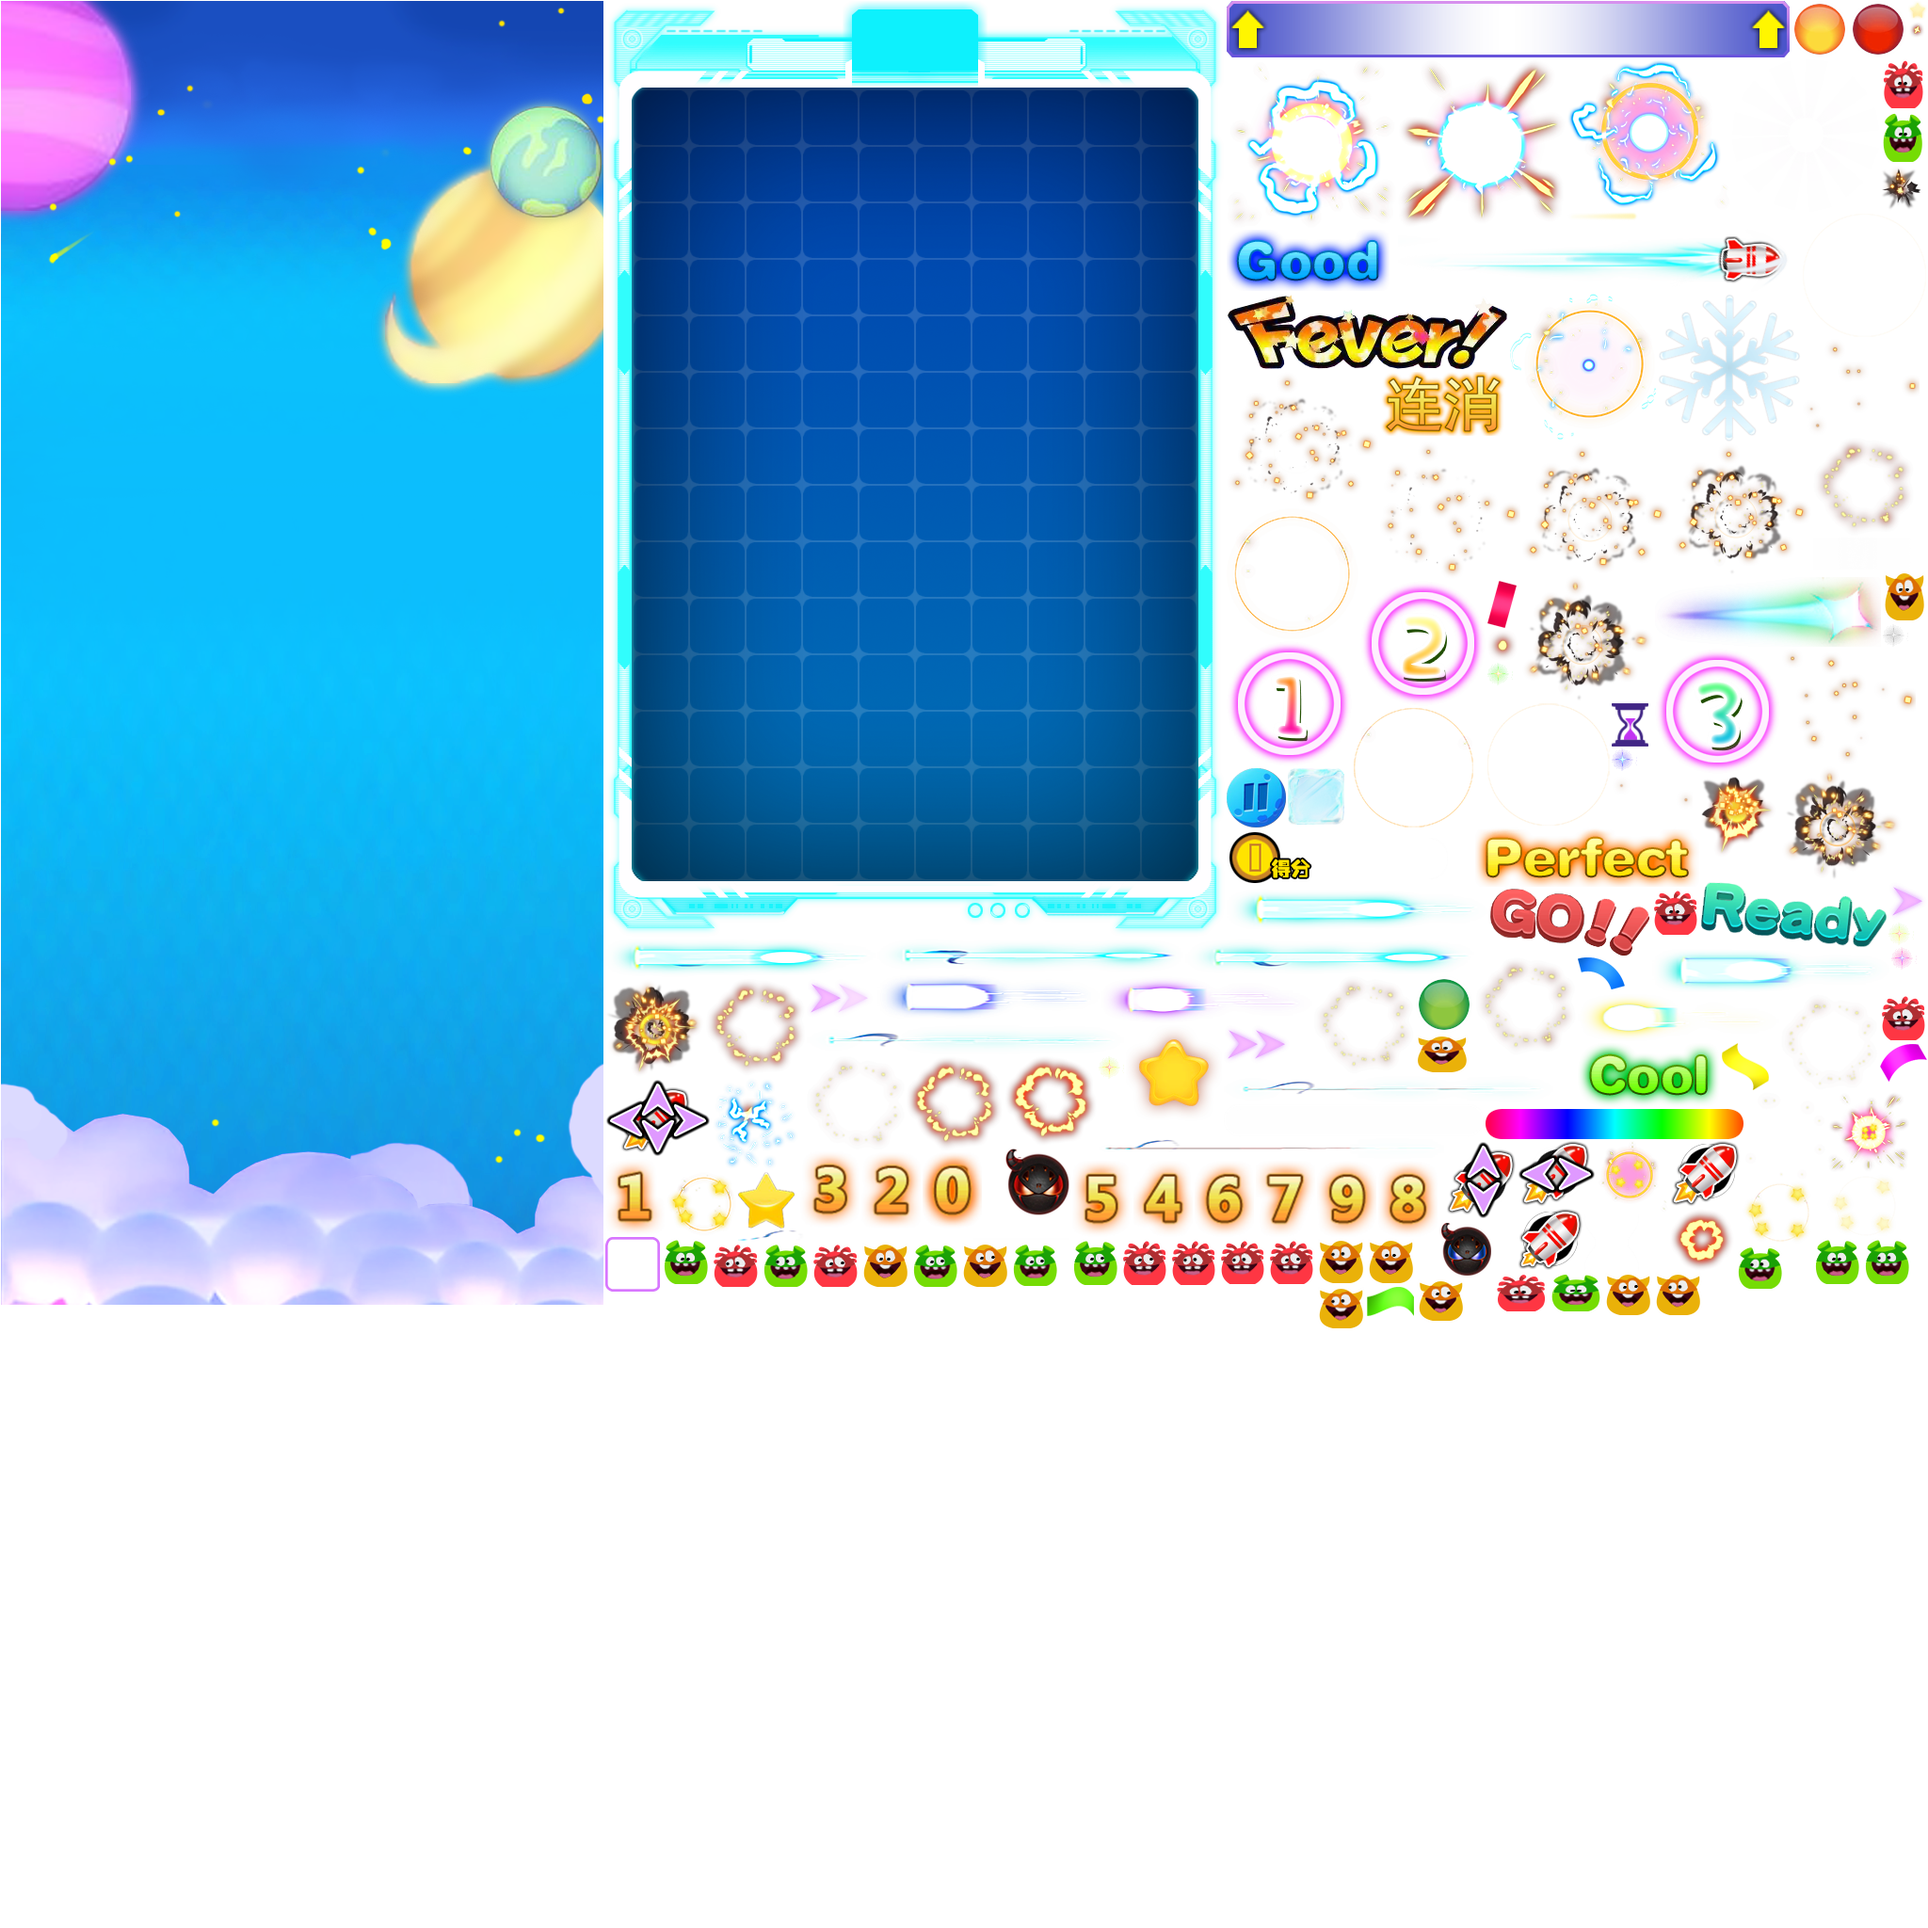
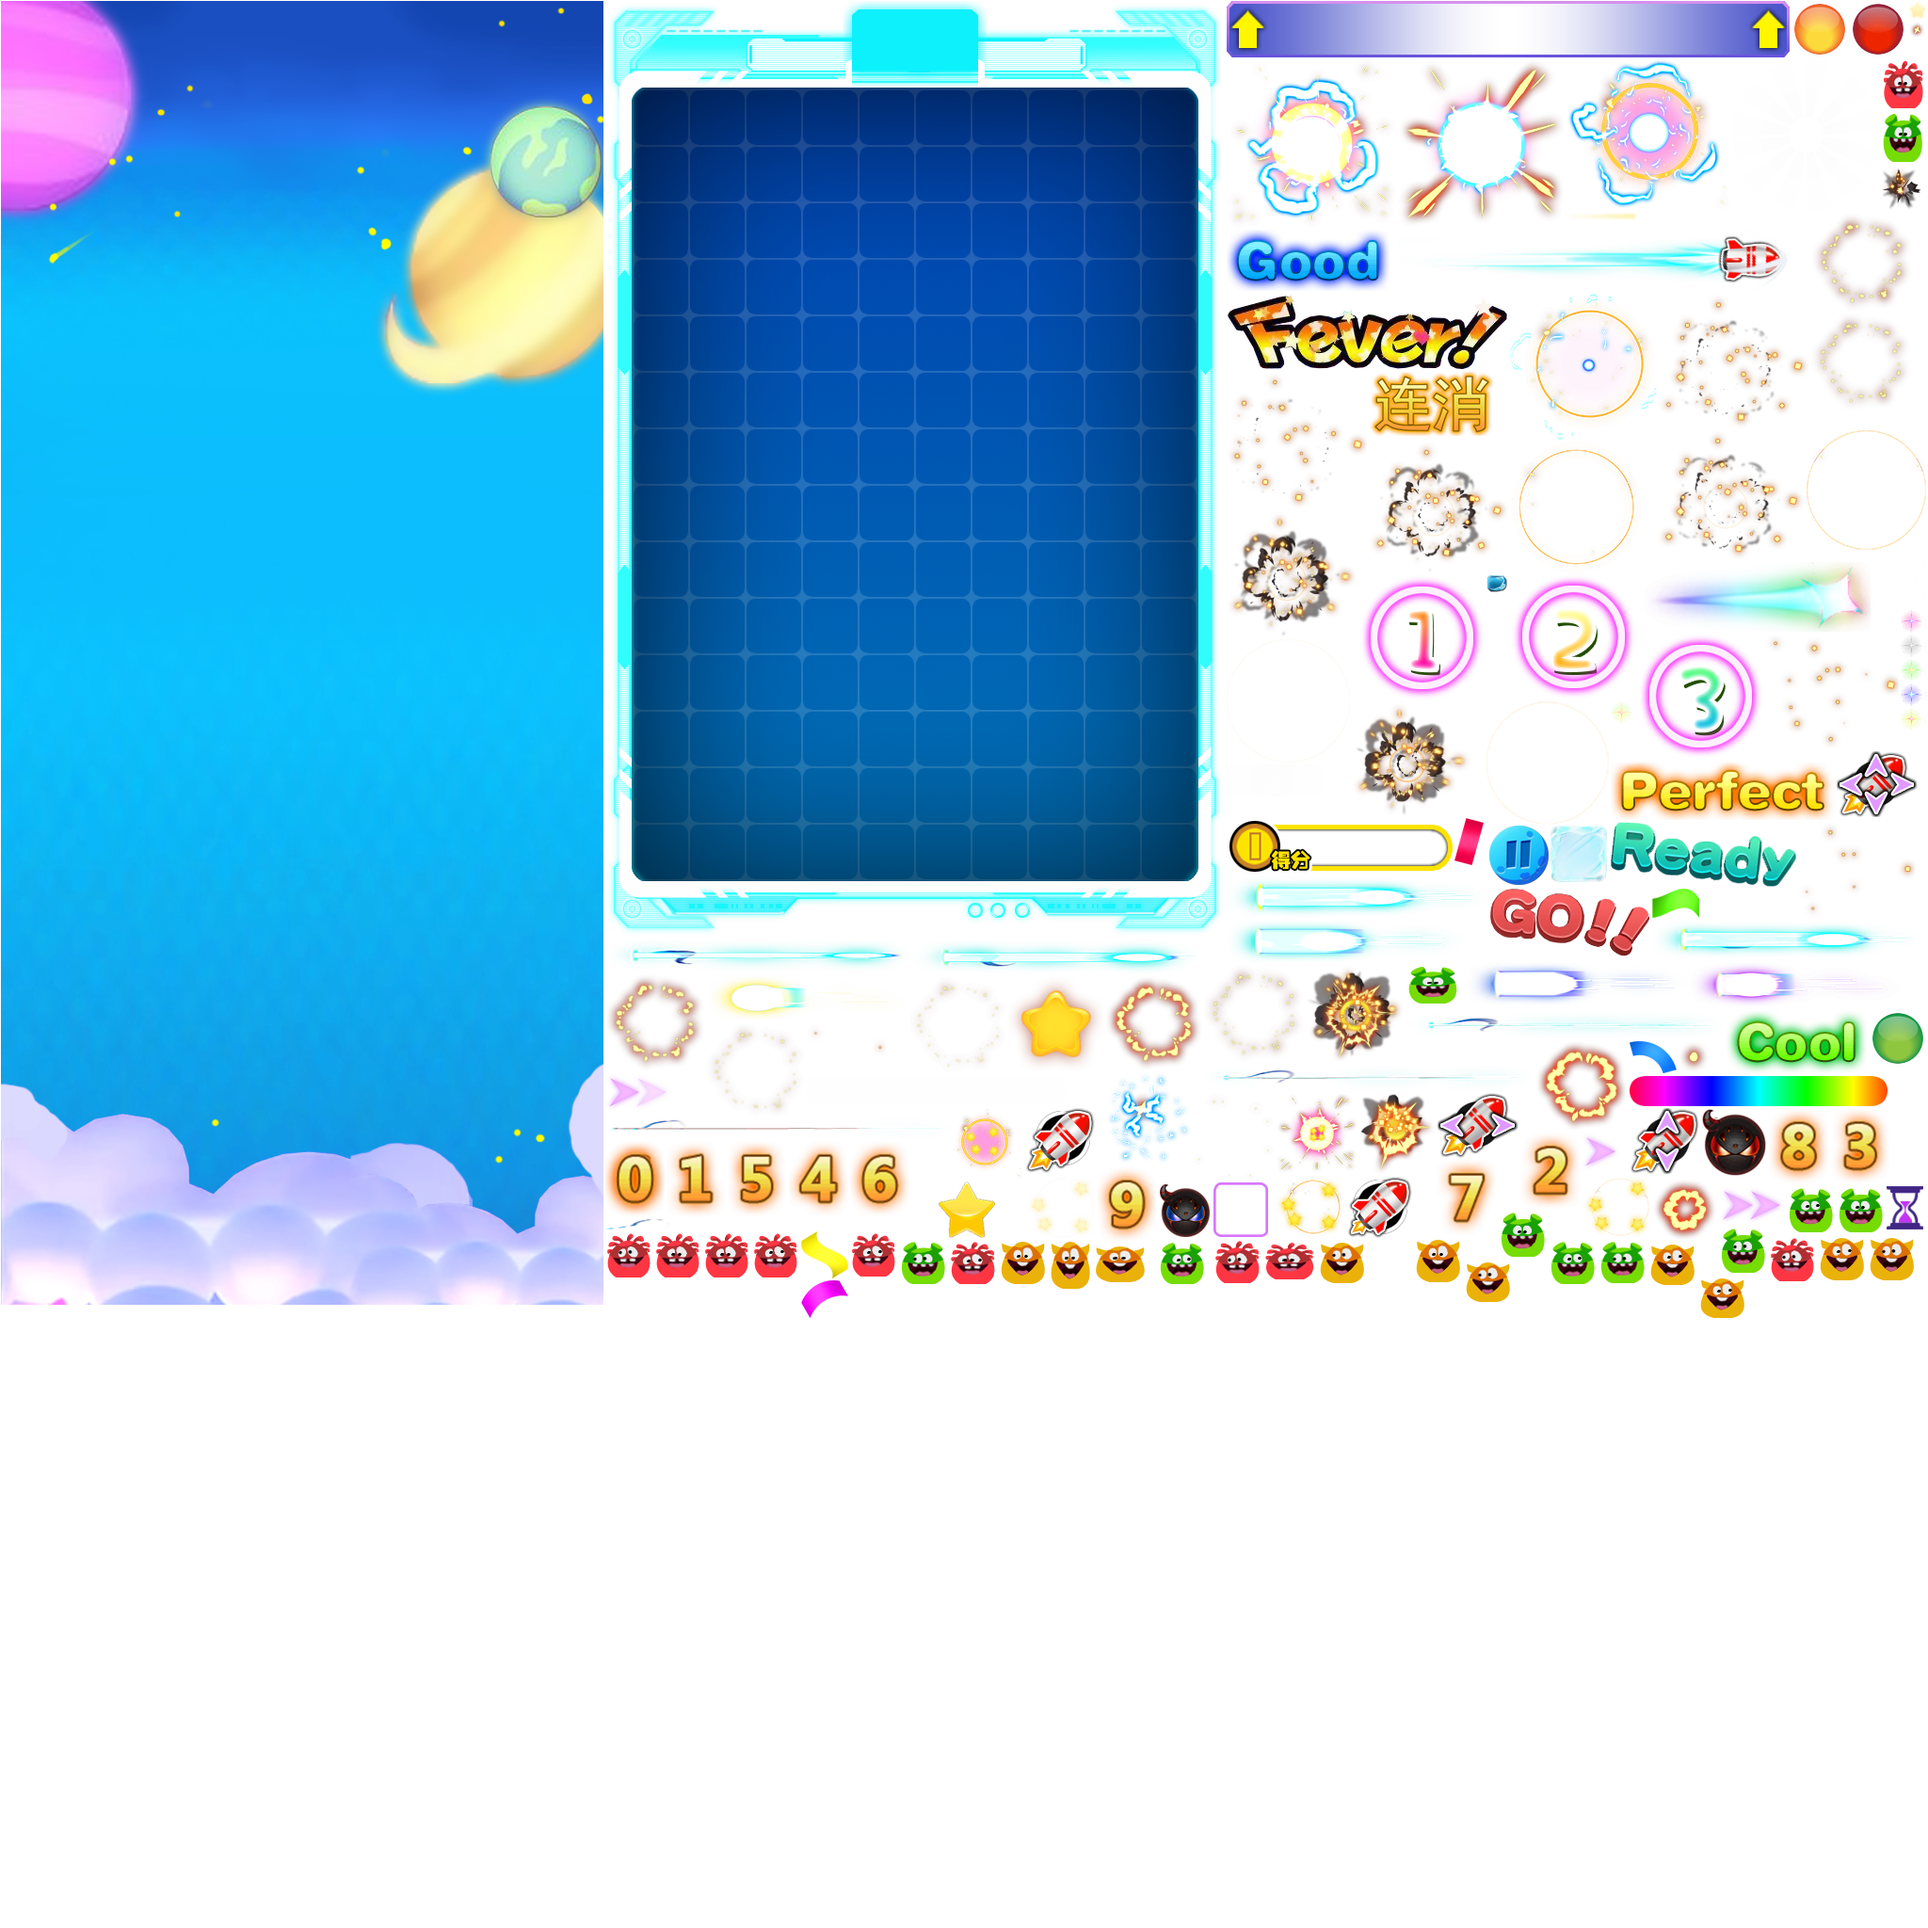
【资源】冰块碎裂特效

Changed region(s): [[0.3125, 0.0938, 1.0, 0.6875]]

diff --git a/PDProject/src/GameElement/SceneElement/SceneElementBase.ts b/PDProject/src/GameElement/SceneElement/SceneElementBase.ts
@@ -356,11 +356,23 @@ abstract class SceneElementBase
         if (this.bubbleShield != undefined
             && this.bubbleShield != null)
         {
-            this.PlayBoomEffect();
+            var particalParam = new PaPlayParticalParam();
+            particalParam.textureName = "ice_Boom";
+            particalParam.jsonName = "ice_Boom";
+            particalParam.duration = 2000;
+            particalParam.emitDuration = 100;
+            particalParam.posX = Tools.ElementPosToGameStagePosX(this.posx);
+            particalParam.posY = Tools.ElementPosToGameStagePosY(this.posy);
+            var event = new PlayProgramAnimationEvent();
+            event.param = particalParam;
+            GameMain.GetInstance().DispatchEvent(event);
+
             this.accessory.removeChild(this.bubbleShield);
             this.bubbleShield = null;
         }
     }
+
+
 
     public SetFeverState(isFever: boolean)
     {
